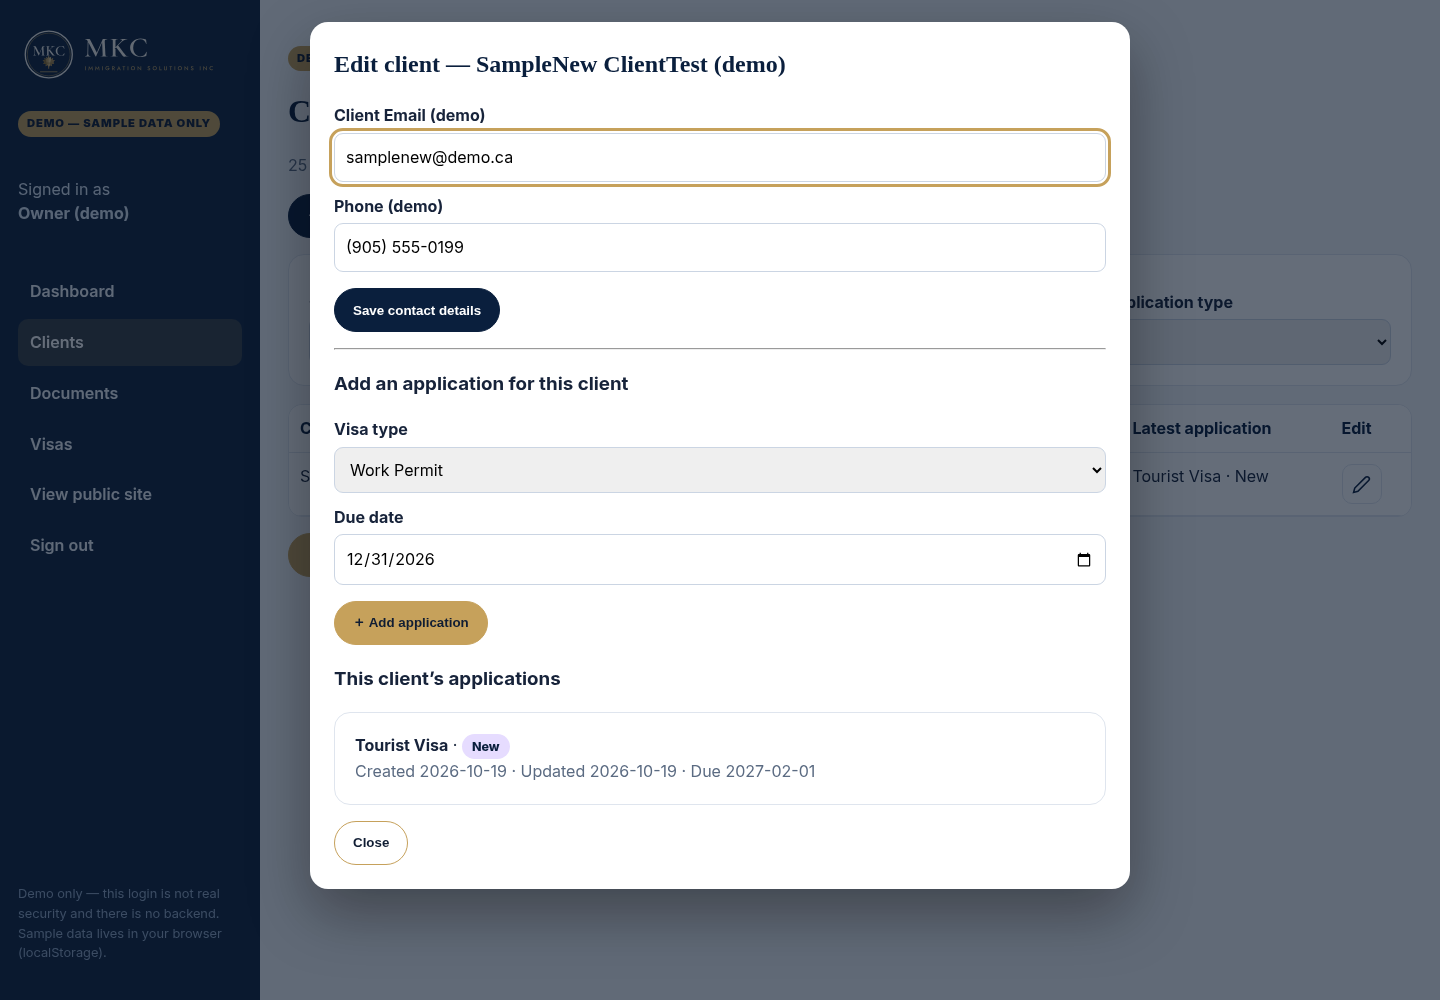
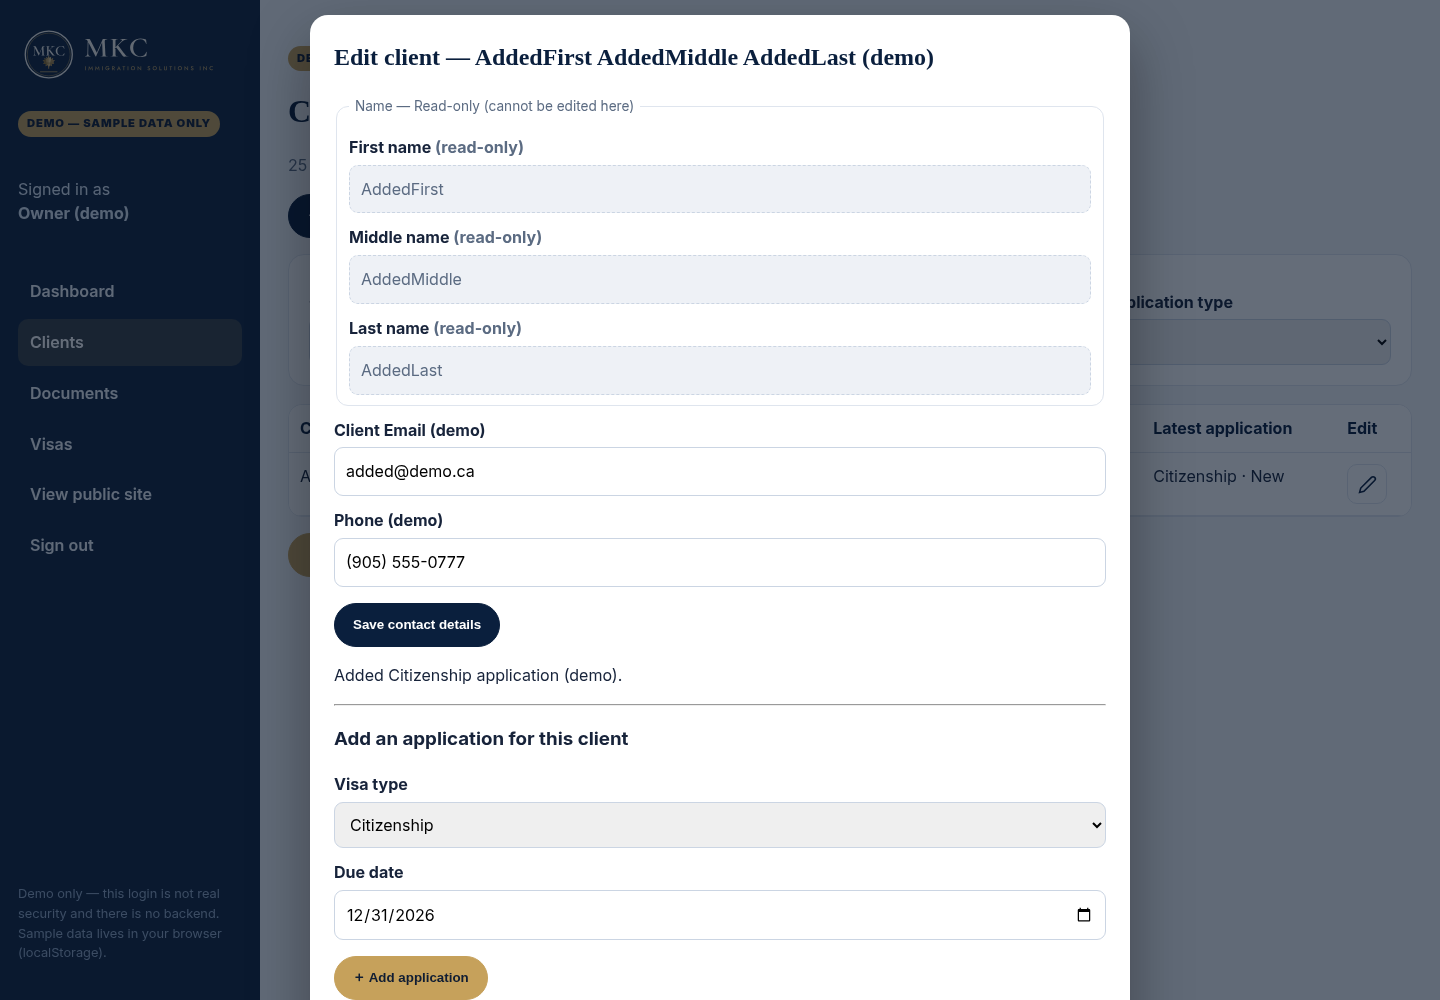
Sync the demo site from local archive 5568657.
Keep the existing GitHub Pages workflow that deploys dist/.

diff --git a/dist/about.html b/dist/about.html
@@ -19,8 +19,14 @@
 <div class="nav-actions"><a class="btn" href="contact.html">Book a consultation</a><a class="btn ghost-light" href="login.html">Login</a></div>
 </div></header>
 <main id="main"><section class="page-hero"><div class="wrap"><p class="eyebrow">MKC Immigration Solutions Inc</p><h1>About MKC</h1><p class="lead">Personal guidance from Morris King Catalig in Mississauga (Streetsville), Ontario.</p><div class="cta-row"><a class="btn" href="contact.html">Book a consultation</a><a class="btn ghost" href="tel:+19059973200">Call +1 905-997-3200</a></div></div></section>
-<section><div class="wrap split"><div><p class="eyebrow" style="color:#8a6d2f">About</p><h2>Personal guidance from Morris King Catalig</h2><p style="color:var(--muted)">Morris King Catalig is an immigration consultant at MKC Immigration Solutions Inc in Mississauga, a role listed publicly since October 2018. Clients’ reviews repeatedly describe a kind, patient and professional approach — and support that goes the extra mile at each stage.</p><ul class="check"><li>Based in Mississauga (Streetsville), Ontario</li><li>Careful, thorough approach to documentation, as described by clients</li><li>Clear next steps, explained in plain language</li></ul><div class="cta-row"><a class="btn navy" href="contact.html">Book a consultation</a><a href="https://linkedin.com/in/morris-king-catalig-rcic-907a42108" target="_blank" rel="noopener" style="align-self:center;font-weight:700">Connect on LinkedIn ↗</a></div></div>
+<section><div class="wrap split"><div><!-- Portrait: AI-edited for clothing (navy suit) with John's approval via Higgsfield (1 generation, 0.25 credits, 2026-10-19); face/hair/identity from the client-supplied original. Not presented as an unedited photograph. -->
+<figure class="morris-photo"><img src="assets/morris-portrait.jpg" alt="Morris King Catalig" width="640" height="800"><figcaption class="muted" style="color:var(--muted);font-size:.9rem;margin-top:8px">Morris King Catalig</figcaption></figure><p class="eyebrow" style="color:#8a6d2f">About</p><h2>Personal guidance from Morris King Catalig</h2><p style="color:var(--muted)">Morris King Catalig is an immigration consultant at MKC Immigration Solutions Inc in Mississauga, a role listed publicly since October 2018. Clients’ reviews repeatedly describe a kind, patient and professional approach — and support that goes the extra mile at each stage.</p><ul class="check"><li>Based in Mississauga (Streetsville), Ontario</li><li>Careful, thorough approach to documentation, as described by clients</li><li>Clear next steps, explained in plain language</li></ul><div class="cta-row"><a class="btn navy" href="contact.html">Book a consultation</a><a href="https://linkedin.com/in/morris-king-catalig-rcic-907a42108" target="_blank" rel="noopener" style="align-self:center;font-weight:700">Connect on LinkedIn ↗</a></div></div>
 <div class="about-card"><img class="about-mark" src="assets/logo-app-icon-512.png" alt="MKC Immigration Solutions Inc" width="84" height="84"><p class="card-kicker">Why choose MKC</p><h3>Professional help, without the overwhelm.</h3><p>Immigration paperwork can feel complex. MKC’s role is to help you understand what is being asked, prepare your documents carefully, and know what happens next.</p><ul class="check"><li>Step-by-step guidance from first conversation onward</li><li>Responsive answers to your questions, as described by clients</li><li>Support across work permit, residence and citizenship stages</li></ul></div></div></section>
+<section style="padding-top:0"><div class="wrap"><div class="card credentials-card">
+<!-- DEMO PLACEHOLDER: The ICCRC number below is a demo placeholder supplied for this draft. It is NOT verified. Do not present it as a verified licence/registration until Morris provides his verified CICC licence number and it is checked on the CICC Public Register. No 'licensed' claim is made by this block. -->
+<img class="cicc-logo" src="assets/cicc-logo.png" alt="College of Immigration and Citizenship Consultants (CICC) logo" width="288" height="91">
+<div><h3 style="margin-top:0">Credentials (demo)</h3><p class="cred-number">ICCRC#: X123456</p><p class="cred-note">(demo placeholder - replace with verified CICC licence no.)</p></div>
+</div></div></section>
 <section class="alt"><div class="wrap"><div class="section-head"><h2>Next steps</h2><p>See the services MKC lists, or how the process works.</p></div><div class="cta-row"><a class="btn navy" href="services.html">View services</a><a class="btn navy" href="process.html">How it works</a></div></div></section></main>
 <footer><div class="wrap"><div class="footer-grid">
 <div><a class="wordmark" href="index.html" aria-label="MKC Immigration Solutions Inc home"><img class="logo-lockup footer-logo" src="assets/logo-lockup-dark.svg" alt="MKC Immigration Solutions Inc" width="260" height="80"></a><p class="small">Immigration consulting in Mississauga, Ontario — work permits, permanent residence, citizenship and general immigration consulting.</p></div>

diff --git a/site/about.html b/site/about.html
@@ -19,8 +19,14 @@
 <div class="nav-actions"><a class="btn" href="contact.html">Book a consultation</a><a class="btn ghost-light" href="login.html">Login</a></div>
 </div></header>
 <main id="main"><section class="page-hero"><div class="wrap"><p class="eyebrow">MKC Immigration Solutions Inc</p><h1>About MKC</h1><p class="lead">Personal guidance from Morris King Catalig in Mississauga (Streetsville), Ontario.</p><div class="cta-row"><a class="btn" href="contact.html">Book a consultation</a><a class="btn ghost" href="tel:+19059973200">Call +1 905-997-3200</a></div></div></section>
-<section><div class="wrap split"><div><p class="eyebrow" style="color:#8a6d2f">About</p><h2>Personal guidance from Morris King Catalig</h2><p style="color:var(--muted)">Morris King Catalig is an immigration consultant at MKC Immigration Solutions Inc in Mississauga, a role listed publicly since October 2018. Clients’ reviews repeatedly describe a kind, patient and professional approach — and support that goes the extra mile at each stage.</p><ul class="check"><li>Based in Mississauga (Streetsville), Ontario</li><li>Careful, thorough approach to documentation, as described by clients</li><li>Clear next steps, explained in plain language</li></ul><div class="cta-row"><a class="btn navy" href="contact.html">Book a consultation</a><a href="https://linkedin.com/in/morris-king-catalig-rcic-907a42108" target="_blank" rel="noopener" style="align-self:center;font-weight:700">Connect on LinkedIn ↗</a></div></div>
+<section><div class="wrap split"><div><!-- Portrait: AI-edited for clothing (navy suit) with John's approval via Higgsfield (1 generation, 0.25 credits, 2026-10-19); face/hair/identity from the client-supplied original. Not presented as an unedited photograph. -->
+<figure class="morris-photo"><img src="assets/morris-portrait.jpg" alt="Morris King Catalig" width="640" height="800"><figcaption class="muted" style="color:var(--muted);font-size:.9rem;margin-top:8px">Morris King Catalig</figcaption></figure><p class="eyebrow" style="color:#8a6d2f">About</p><h2>Personal guidance from Morris King Catalig</h2><p style="color:var(--muted)">Morris King Catalig is an immigration consultant at MKC Immigration Solutions Inc in Mississauga, a role listed publicly since October 2018. Clients’ reviews repeatedly describe a kind, patient and professional approach — and support that goes the extra mile at each stage.</p><ul class="check"><li>Based in Mississauga (Streetsville), Ontario</li><li>Careful, thorough approach to documentation, as described by clients</li><li>Clear next steps, explained in plain language</li></ul><div class="cta-row"><a class="btn navy" href="contact.html">Book a consultation</a><a href="https://linkedin.com/in/morris-king-catalig-rcic-907a42108" target="_blank" rel="noopener" style="align-self:center;font-weight:700">Connect on LinkedIn ↗</a></div></div>
 <div class="about-card"><img class="about-mark" src="assets/logo-app-icon-512.png" alt="MKC Immigration Solutions Inc" width="84" height="84"><p class="card-kicker">Why choose MKC</p><h3>Professional help, without the overwhelm.</h3><p>Immigration paperwork can feel complex. MKC’s role is to help you understand what is being asked, prepare your documents carefully, and know what happens next.</p><ul class="check"><li>Step-by-step guidance from first conversation onward</li><li>Responsive answers to your questions, as described by clients</li><li>Support across work permit, residence and citizenship stages</li></ul></div></div></section>
+<section style="padding-top:0"><div class="wrap"><div class="card credentials-card">
+<!-- DEMO PLACEHOLDER: The ICCRC number below is a demo placeholder supplied for this draft. It is NOT verified. Do not present it as a verified licence/registration until Morris provides his verified CICC licence number and it is checked on the CICC Public Register. No 'licensed' claim is made by this block. -->
+<img class="cicc-logo" src="assets/cicc-logo.png" alt="College of Immigration and Citizenship Consultants (CICC) logo" width="288" height="91">
+<div><h3 style="margin-top:0">Credentials (demo)</h3><p class="cred-number">ICCRC#: X123456</p><p class="cred-note">(demo placeholder - replace with verified CICC licence no.)</p></div>
+</div></div></section>
 <section class="alt"><div class="wrap"><div class="section-head"><h2>Next steps</h2><p>See the services MKC lists, or how the process works.</p></div><div class="cta-row"><a class="btn navy" href="services.html">View services</a><a class="btn navy" href="process.html">How it works</a></div></div></section></main>
 <footer><div class="wrap"><div class="footer-grid">
 <div><a class="wordmark" href="index.html" aria-label="MKC Immigration Solutions Inc home"><img class="logo-lockup footer-logo" src="assets/logo-lockup-dark.svg" alt="MKC Immigration Solutions Inc" width="260" height="80"></a><p class="small">Immigration consulting in Mississauga, Ontario — work permits, permanent residence, citizenship and general immigration consulting.</p></div>

diff --git a/dist/owner/clients.html b/dist/owner/clients.html
@@ -25,7 +25,13 @@
 <div class="actions"><button class="btn navy" type="submit">Save client (demo)</button><button class="btn ghost" type="button" data-close="addClientModal">Cancel</button></div></form></div></div>
 <div class="modal-back" id="editClientModal" hidden><div class="modal wide" role="dialog" aria-modal="true" aria-labelledby="editClientTitle">
 <h2 id="editClientTitle">Edit client — <span id="editClientName"></span> (demo)</h2>
-<form id="editClientForm"><label for="editEmail">Client Email (demo)</label><input id="editEmail" type="email">
+<form id="editClientForm">
+<fieldset style="border:1px solid var(--line);border-radius:12px;margin-bottom:6px"><legend class="muted" style="font-size:.85rem;padding:0 6px">Name — Read-only (cannot be edited here)</legend>
+<label for="editFirst">First name <span class="muted">(read-only)</span></label><input id="editFirst" readonly aria-readonly="true" class="readonly-field">
+<label for="editMiddle">Middle name <span class="muted">(read-only)</span></label><input id="editMiddle" readonly aria-readonly="true" class="readonly-field">
+<label for="editLast">Last name <span class="muted">(read-only)</span></label><input id="editLast" readonly aria-readonly="true" class="readonly-field">
+</fieldset>
+<label for="editEmail">Client Email (demo)</label><input id="editEmail" type="email">
 <label for="editPhone">Phone (demo)</label><input id="editPhone" type="tel">
 <div class="actions"><button class="btn navy" type="submit">Save contact details</button></div><p id="editMsg" role="status" aria-live="polite"></p></form>
 <hr><h3>Add an application for this client</h3>

diff --git a/site/owner/clients.html b/site/owner/clients.html
@@ -25,7 +25,13 @@
 <div class="actions"><button class="btn navy" type="submit">Save client (demo)</button><button class="btn ghost" type="button" data-close="addClientModal">Cancel</button></div></form></div></div>
 <div class="modal-back" id="editClientModal" hidden><div class="modal wide" role="dialog" aria-modal="true" aria-labelledby="editClientTitle">
 <h2 id="editClientTitle">Edit client — <span id="editClientName"></span> (demo)</h2>
-<form id="editClientForm"><label for="editEmail">Client Email (demo)</label><input id="editEmail" type="email">
+<form id="editClientForm">
+<fieldset style="border:1px solid var(--line);border-radius:12px;margin-bottom:6px"><legend class="muted" style="font-size:.85rem;padding:0 6px">Name — Read-only (cannot be edited here)</legend>
+<label for="editFirst">First name <span class="muted">(read-only)</span></label><input id="editFirst" readonly aria-readonly="true" class="readonly-field">
+<label for="editMiddle">Middle name <span class="muted">(read-only)</span></label><input id="editMiddle" readonly aria-readonly="true" class="readonly-field">
+<label for="editLast">Last name <span class="muted">(read-only)</span></label><input id="editLast" readonly aria-readonly="true" class="readonly-field">
+</fieldset>
+<label for="editEmail">Client Email (demo)</label><input id="editEmail" type="email">
 <label for="editPhone">Phone (demo)</label><input id="editPhone" type="tel">
 <div class="actions"><button class="btn navy" type="submit">Save contact details</button></div><p id="editMsg" role="status" aria-live="polite"></p></form>
 <hr><h3>Add an application for this client</h3>

diff --git a/dist/assets/dashboard.js b/dist/assets/dashboard.js
@@ -86,7 +86,7 @@ if(page==='clients'){
   document.querySelectorAll('[data-edit-client]').forEach(function(b){b.addEventListener('click',function(){openEdit(b.getAttribute('data-edit-client'),b);});});}
  function renderEditApps(){var apps=data.applications.filter(function(a){return a.clientId===editingId;});
   $('editApps').innerHTML=apps.length?apps.map(function(a){return '<li class="card"><strong>'+esc(a.type)+'</strong> · '+badge(a.status)+'<br><span class="muted">Created '+esc(a.createdAt||a.date)+' · Updated '+esc(a.updatedAt||a.createdAt||a.date)+' · Due '+esc(a.due)+'</span></li>';}).join(''):'<li class="card">No applications yet.</li>';}
- function openEdit(cid,btn){editingId=cid;var c=clientById(cid);$('editEmail').value=c.email;$('editPhone').value=c.phone;$('editClientName').textContent=S.clientName(c);renderEditApps();openModal('editClientModal');if(btn)lastFocus=btn;}
+ function openEdit(cid,btn){editingId=cid;var c=clientById(cid);$('editFirst').value=c.first||'';$('editMiddle').value=c.middle||'—';$('editLast').value=c.last||'';$('editEmail').value=c.email;$('editPhone').value=c.phone;$('editClientName').textContent=S.clientName(c);renderEditApps();openModal('editClientModal');if(btn)lastFocus=btn;}
  $('addClientBtn').addEventListener('click',function(){openModal('addClientModal');});
  $('addClientForm').addEventListener('submit',function(e){e.preventDefault();
   var first=$('newFirst').value.trim(),last=$('newLast').value.trim(),email=$('newEmail').value.trim(),type=$('newVisaType').value;

diff --git a/site/assets/dashboard.js b/site/assets/dashboard.js
@@ -86,7 +86,7 @@ if(page==='clients'){
   document.querySelectorAll('[data-edit-client]').forEach(function(b){b.addEventListener('click',function(){openEdit(b.getAttribute('data-edit-client'),b);});});}
  function renderEditApps(){var apps=data.applications.filter(function(a){return a.clientId===editingId;});
   $('editApps').innerHTML=apps.length?apps.map(function(a){return '<li class="card"><strong>'+esc(a.type)+'</strong> · '+badge(a.status)+'<br><span class="muted">Created '+esc(a.createdAt||a.date)+' · Updated '+esc(a.updatedAt||a.createdAt||a.date)+' · Due '+esc(a.due)+'</span></li>';}).join(''):'<li class="card">No applications yet.</li>';}
- function openEdit(cid,btn){editingId=cid;var c=clientById(cid);$('editEmail').value=c.email;$('editPhone').value=c.phone;$('editClientName').textContent=S.clientName(c);renderEditApps();openModal('editClientModal');if(btn)lastFocus=btn;}
+ function openEdit(cid,btn){editingId=cid;var c=clientById(cid);$('editFirst').value=c.first||'';$('editMiddle').value=c.middle||'—';$('editLast').value=c.last||'';$('editEmail').value=c.email;$('editPhone').value=c.phone;$('editClientName').textContent=S.clientName(c);renderEditApps();openModal('editClientModal');if(btn)lastFocus=btn;}
  $('addClientBtn').addEventListener('click',function(){openModal('addClientModal');});
  $('addClientForm').addEventListener('submit',function(e){e.preventDefault();
   var first=$('newFirst').value.trim(),last=$('newLast').value.trim(),email=$('newEmail').value.trim(),type=$('newVisaType').value;

diff --git a/dist/assets/style.css b/dist/assets/style.css
@@ -61,3 +61,10 @@ footer{background:#071426;color:#c8d7ec;padding:52px 0 30px}footer a{color:#f3d9
 .menu-toggle{display:none;background:transparent;color:#fff;border:1px solid rgba(255,255,255,.55);border-radius:10px;padding:10px 14px;font-weight:800;cursor:pointer;min-height:44px}
 @media(max-width:1020px){nav ul{gap:18px}}
 @media(max-width:900px){.menu-toggle{display:block}.nav{flex-wrap:wrap;padding:10px 0}header nav{order:3;width:100%}#mainNav{display:none;flex-direction:column;gap:4px;padding:10px 0}#mainNav.open{display:flex}#mainNav a{display:block;padding:10px 0}.nav-actions .btn{padding:10px 14px;font-size:.88rem}}
+
+.morris-photo{margin:0 0 24px}.morris-photo img{width:min(320px,100%);height:auto;aspect-ratio:4/5;object-fit:cover;border-radius:22px;border:3px solid var(--gold);display:block}
+.credentials-card{display:flex;gap:28px;align-items:center;flex-wrap:wrap}
+.cicc-logo{width:260px;max-width:100%;height:auto;background:#fff}
+.cred-number{font-family:Georgia,serif;font-size:1.5rem;color:var(--navy);margin:4px 0}
+.cred-note{color:#8a0e24;font-weight:800;margin:0}
+@media(max-width:560px){.credentials-card{gap:16px}}

diff --git a/site/assets/style.css b/site/assets/style.css
@@ -61,3 +61,10 @@ footer{background:#071426;color:#c8d7ec;padding:52px 0 30px}footer a{color:#f3d9
 .menu-toggle{display:none;background:transparent;color:#fff;border:1px solid rgba(255,255,255,.55);border-radius:10px;padding:10px 14px;font-weight:800;cursor:pointer;min-height:44px}
 @media(max-width:1020px){nav ul{gap:18px}}
 @media(max-width:900px){.menu-toggle{display:block}.nav{flex-wrap:wrap;padding:10px 0}header nav{order:3;width:100%}#mainNav{display:none;flex-direction:column;gap:4px;padding:10px 0}#mainNav.open{display:flex}#mainNav a{display:block;padding:10px 0}.nav-actions .btn{padding:10px 14px;font-size:.88rem}}
+
+.morris-photo{margin:0 0 24px}.morris-photo img{width:min(320px,100%);height:auto;aspect-ratio:4/5;object-fit:cover;border-radius:22px;border:3px solid var(--gold);display:block}
+.credentials-card{display:flex;gap:28px;align-items:center;flex-wrap:wrap}
+.cicc-logo{width:260px;max-width:100%;height:auto;background:#fff}
+.cred-number{font-family:Georgia,serif;font-size:1.5rem;color:var(--navy);margin:4px 0}
+.cred-note{color:#8a0e24;font-weight:800;margin:0}
+@media(max-width:560px){.credentials-card{gap:16px}}

diff --git a/dist/assets/dashboard.css b/dist/assets/dashboard.css
@@ -46,3 +46,5 @@ label{font-weight:700;display:block;margin:12px 0 5px}input,select,textarea{widt
 @media(max-width:640px){.dual{grid-template-columns:1fr}.dual-arrows{flex-direction:row;justify-content:center}.dual-arrows .btn{transform:rotate(90deg)}}
 .modal .actions{display:flex;gap:10px;flex-wrap:wrap;margin-top:16px}
 [hidden]{display:none!important}
+
+.readonly-field{background:#eef1f6;color:#5b6b82;cursor:not-allowed;border-style:dashed}

diff --git a/site/assets/dashboard.css b/site/assets/dashboard.css
@@ -46,3 +46,5 @@ label{font-weight:700;display:block;margin:12px 0 5px}input,select,textarea{widt
 @media(max-width:640px){.dual{grid-template-columns:1fr}.dual-arrows{flex-direction:row;justify-content:center}.dual-arrows .btn{transform:rotate(90deg)}}
 .modal .actions{display:flex;gap:10px;flex-wrap:wrap;margin-top:16px}
 [hidden]{display:none!important}
+
+.readonly-field{background:#eef1f6;color:#5b6b82;cursor:not-allowed;border-style:dashed}

diff --git a/README.md b/README.md
@@ -26,3 +26,7 @@ Single shared store `site/assets/demo-data.js`, localStorage key `mkc_demo_v2`, 
 - **Document delete behaviour:** deleting a document (styled demo confirm) also removes it from every visa's required list, so client checklists update consistently.
 - Document/client/visa add & edit are accessible modals (dialog roles, Escape closes, focus returns). Document sample uploads and checklist uploads store filenames only.
 - The visible Pexels footer credit line was removed from all public pages (2026-10-19); the licence note remains in this README and in an HTML comment on the home page.
+
+## About credentials & portrait (2026-10-19)
+- `site/assets/cicc-logo.png` copied from a client-supplied inbox file (288x91 PNG) and shown in an About credentials block with the text `ICCRC#: X123456` labelled visibly as `(demo placeholder - replace with verified CICC licence no.)`. This is a DEMO PLACEHOLDER, not verified — replace with Morris's verified CICC licence number after checking the CICC Public Register before any real use.
+- `site/assets/morris-portrait.jpg` (640x800): originally a non-generative local polish; on 2026-10-19, with John's approval, ONE Higgsfield `generate_image` edit (`gpt_image_2_5`, 0.25 credits; balance 1000 -> 999.75) changed the clothing to a navy suit/white shirt/navy tie from the original inbox portrait. Face/hair/expression verified visually unchanged. Do not describe it as an unedited photograph. Raw inbox files are not committed.
